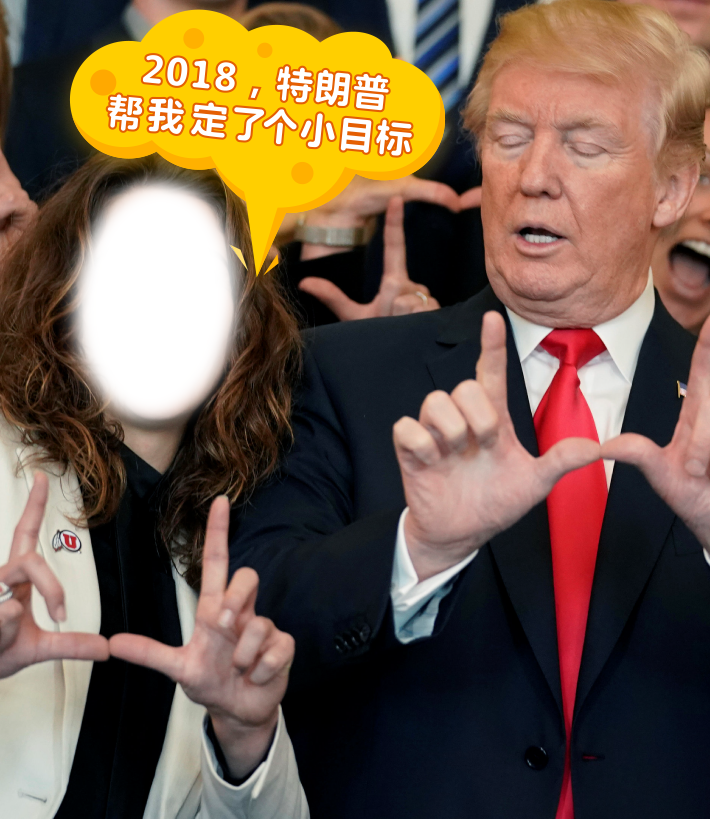
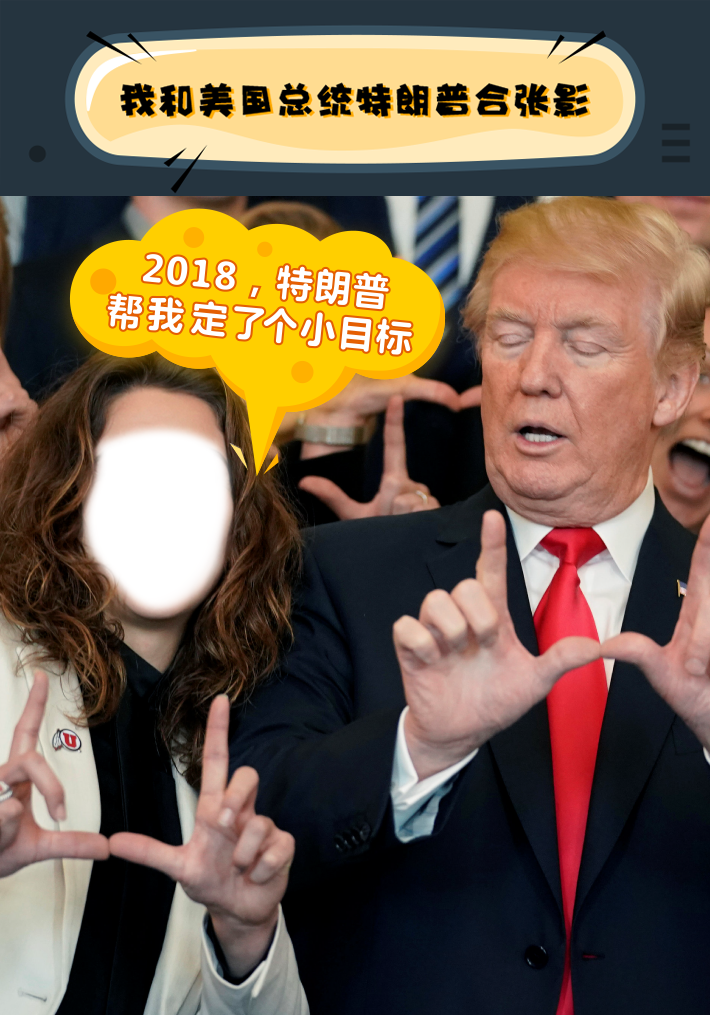
fix img

diff --git a/src/css/index.css b/src/css/index.css
@@ -307,6 +307,7 @@ body {
 }
 .edit .photo_wrap #edit_wrap.type1 #filter {
   background: url(../img/img1.png) no-repeat;
+  background-position: center bottom;
 }
 .edit .photo_wrap #edit_wrap.type1 .img_wrap {
   left: 60px;
@@ -316,6 +317,7 @@ body {
 }
 .edit .photo_wrap #edit_wrap.type2 #filter {
   background: url(../img/img2.png) no-repeat;
+  background-position: center bottom;
 }
 .edit .photo_wrap #edit_wrap.type2 .img_wrap {
   left: 70px;
@@ -325,6 +327,7 @@ body {
 }
 .edit .photo_wrap #edit_wrap.type3 #filter {
   background: url(../img/img3.png) no-repeat;
+  background-position: center bottom;
 }
 .edit .photo_wrap #edit_wrap.type3 .img_wrap {
   left: 70px;
@@ -334,6 +337,7 @@ body {
 }
 .edit .photo_wrap #edit_wrap.type4 #filter {
   background: url(../img/img4.png) no-repeat;
+  background-position: center bottom;
 }
 .edit .photo_wrap #edit_wrap.type4 .img_wrap {
   left: 470px;
@@ -343,6 +347,7 @@ body {
 }
 .edit .photo_wrap #edit_wrap.type5 #filter {
   background: url(../img/img5.png) no-repeat;
+  background-position: center bottom;
 }
 .edit .photo_wrap #edit_wrap.type5 .img_wrap {
   left: 440px;
@@ -352,6 +357,7 @@ body {
 }
 .edit .photo_wrap #edit_wrap.type6 #filter {
   background: url(../img/img6.png) no-repeat;
+  background-position: center bottom;
 }
 .edit .photo_wrap #edit_wrap.type6 .img_wrap {
   left: 400px;
@@ -375,11 +381,12 @@ body {
   left: 0;
   top: 0;
   right: 0;
-  width: 100%;
-  height: 202px;
-  background: url(../img/result_header.png) no-repeat;
+  z-index: 20;
+  width: 100px;
+  height: 100px;
 }
 .result .header h3 {
+  display: none;
   margin: 0;
   padding: 0;
   font: 34px/200px "Microsoft Yahei";
@@ -392,11 +399,12 @@ body {
   top: 0;
   width: 100px;
   height: 100px;
+  background: url(../img/result_header.png) no-repeat;
 }
 .result .photo_wrap {
   position: absolute;
   left: 0;
-  top: 202px;
+  top: 0;
   width: 100%;
 }
 .result .photo_wrap img {
@@ -405,9 +413,9 @@ body {
 }
 .result .btn_save {
   position: absolute;
-  left: 210px;
-  bottom: 20px;
-  width: 340px;
-  height: 104px;
-  background: url(../img/sprite.png) no-repeat -360px -1080px;
+  left: 100px;
+  bottom: 40px;
+  width: 557px;
+  height: 60px;
+  background: url(../img/sprite.png) no-repeat 0px -1220px;
 }

diff --git a/src/css/index.less b/src/css/index.less
@@ -208,6 +208,7 @@ body{
 		#edit_wrap.type1{
 			#filter{
 				background: url(../img/img1.png) no-repeat;
+				background-position: center bottom;
 			}
 			.img_wrap{
 				left: 60px;top: 170px;
@@ -217,6 +218,7 @@ body{
 		#edit_wrap.type2{
 			#filter{
 				background: url(../img/img2.png) no-repeat;
+				background-position: center bottom;
 			}
 			.img_wrap{
 				left: 70px;top: 46px;
@@ -226,6 +228,7 @@ body{
 		#edit_wrap.type3{
 			#filter{
 				background: url(../img/img3.png) no-repeat;
+				background-position: center bottom;
 			}
 			.img_wrap{
 				left: 70px;top: 46px;
@@ -235,6 +238,7 @@ body{
 		#edit_wrap.type4{
 			#filter{
 				background: url(../img/img4.png) no-repeat;
+				background-position: center bottom;
 			}
 			.img_wrap{
 				left: 470px;top: 140px;
@@ -244,6 +248,7 @@ body{
 		#edit_wrap.type5{
 			#filter{
 				background: url(../img/img5.png) no-repeat;
+				background-position: center bottom;
 			}
 			.img_wrap{
 				left: 440px;top: 60px;
@@ -253,6 +258,7 @@ body{
 		#edit_wrap.type6{
 			#filter{
 				background: url(../img/img6.png) no-repeat;
+				background-position: center bottom;
 			}
 			.img_wrap{
 				left: 400px;top: 160px;
@@ -267,10 +273,10 @@ body{
 	width: 100%;height: 100%;
 	background: #25343f;
 	.header{
-		position: absolute;left: 0;top: 0;right: 0;
-		width: 100%;height: 202px;
-		background: url(../img/result_header.png) no-repeat;
+		position: absolute;left: 0;top: 0;right: 0;z-index: 20;
+		width: 100px;height: 100px;
 		h3{
+			display: none;
 			margin: 0;padding: 0;
 			font: 34px/200px @yh;text-align: center;
 			text-shadow: 2px 2px 0 #ffa900;
@@ -278,19 +284,20 @@ body{
 		.return{
 			position: absolute;left: 0;top: 0;
 			width: 100px;height: 100px;
+			background: url(../img/result_header.png) no-repeat;
 		}
 	}
 	.photo_wrap{
-		position: absolute;left: 0;top: 202px;
+		position: absolute;left: 0;top: 0;
 		width: 100%;
 		img{
 			width: 100%;height: auto;
 		}
 	}
 	.btn_save{
-		position: absolute;left: 210px;bottom: 20px;
-		width: 340px;height: 104px;
-		background: @sprite -360px -1080px;
+		position: absolute;left: 100px;bottom: 40px;
+		width: 557px;height: 60px;
+		background: @sprite 0px -1220px;
 	}
 }
 

diff --git a/src/js/index.js b/src/js/index.js
@@ -172,24 +172,24 @@
         }
         Gesture.prototype.toImg = function(){
             var _canvas = document.createElement("canvas");
-            _canvas.width = 710; _canvas.height = 819;
+            _canvas.width = 710; _canvas.height = 1015;
             var _avatar = new Image(); _avatar.src = window.stage.canvas.toDataURL();
             var self = this;
             var _ctx = _canvas.getContext('2d');
             console.log(_avatar.onload)
             var type = ny.type, o = ny.config.types[type];
-            $(".result h3").text(o.title)
+            // $(".result h3").text(o.title)
             _avatar.onload = function(){
                 // alert(1)
-                _ctx.drawImage(_avatar,o.c_l,o.c_t,o.c_w,o.c_h);
+                _ctx.drawImage(_avatar,o.c_l,o.c_t + 196,o.c_w,o.c_h);
                 console.log(type,o)
                 var _img = new Image(); _img.src = o.img;
                 _img.onload = function(){
                     // _ctx.drawImage(_img,0,0,710,819);
-                    _ctx.drawImage(_img,0,0,710,819)
+                    _ctx.drawImage(_img,0,0,710,1015)
                     var _qrcode = new Image(); _qrcode.src = "img/qrcode.png";
                     _qrcode.onload = function(){
-                        _ctx.drawImage(_qrcode,0,0,128,162,570,630,128,162)
+                        _ctx.drawImage(_qrcode,0,0,128,162,570,630+190,128,162)
                         $("#result").attr("src", _canvas.toDataURL())
                         // $(".result .photo_wrap").append(_canvas)
                     }
